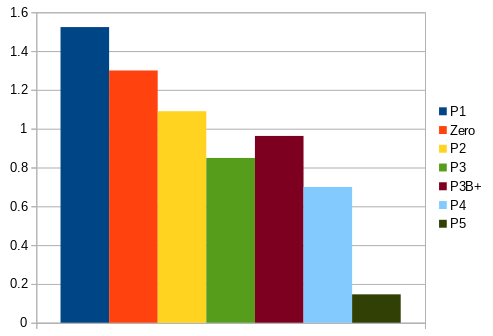
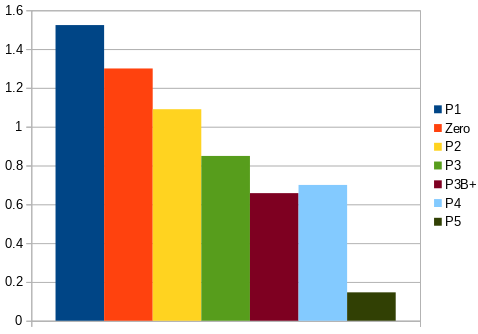
Doc adjustments for profiling Pi3B+

diff --git a/Doc/Profiling/mandelbrot.md b/Doc/Profiling/mandelbrot.md
@@ -19,11 +19,7 @@ The `Mandelbrot` app is a pretty good indicator of performance, because it is **
 
 | P1       | Zero     | P2       | P3       | P3B+     | P4       | P5       |
 |----------|----------|----------|----------| -------- | ---------|----------|
-| 1.523748 | 1.300062 | 1.090135 | 0.849228 | 0.962436 | 0.699729 | 0.146146 |
-
-The time for `Pi3B+` is disappointing;
-this is the first application compiled on `Debian 13 (trixie)`; 
-perhaps there is a connection.
+| 1.523748 | 1.300062 | 1.090135 | 0.849228 | 0.657713 | 0.699729 | 0.146146 |
 
 -----
 
@@ -36,14 +32,18 @@ perhaps there is a connection.
 
 ![CPU Performance](../images/mandelbrot_cpu.png)
 
-| P1       | Zero      | P2       | P3       | P4       | P5       |
-|----------|-----------|----------|----------|----------|----------|
-| 25.08893 | 18.669549 | 8.127472 | 7.133643 | 4.546643 | 1.000233 |
+| P1       | Zero      | P2       | P3       | P3B+     |P4       | P5       |
+|----------|-----------|----------|----------| ----     |----------|----------|
+| 25.08893 | 18.669549 | 8.127472 | 7.133643 | 5.323419 |4.546643 | 1.000233 |
 
 
 -------------------------------
 
 ## Discussion
+
+`Pi3B+` competes quite nicely with `Pi4`.  
+Admittedly, some code enhancement was required for this.
+
 
 `Pi5` is killing the other Pi's. It is faster for both GPU and CPU by at least a factor
 of four.  
